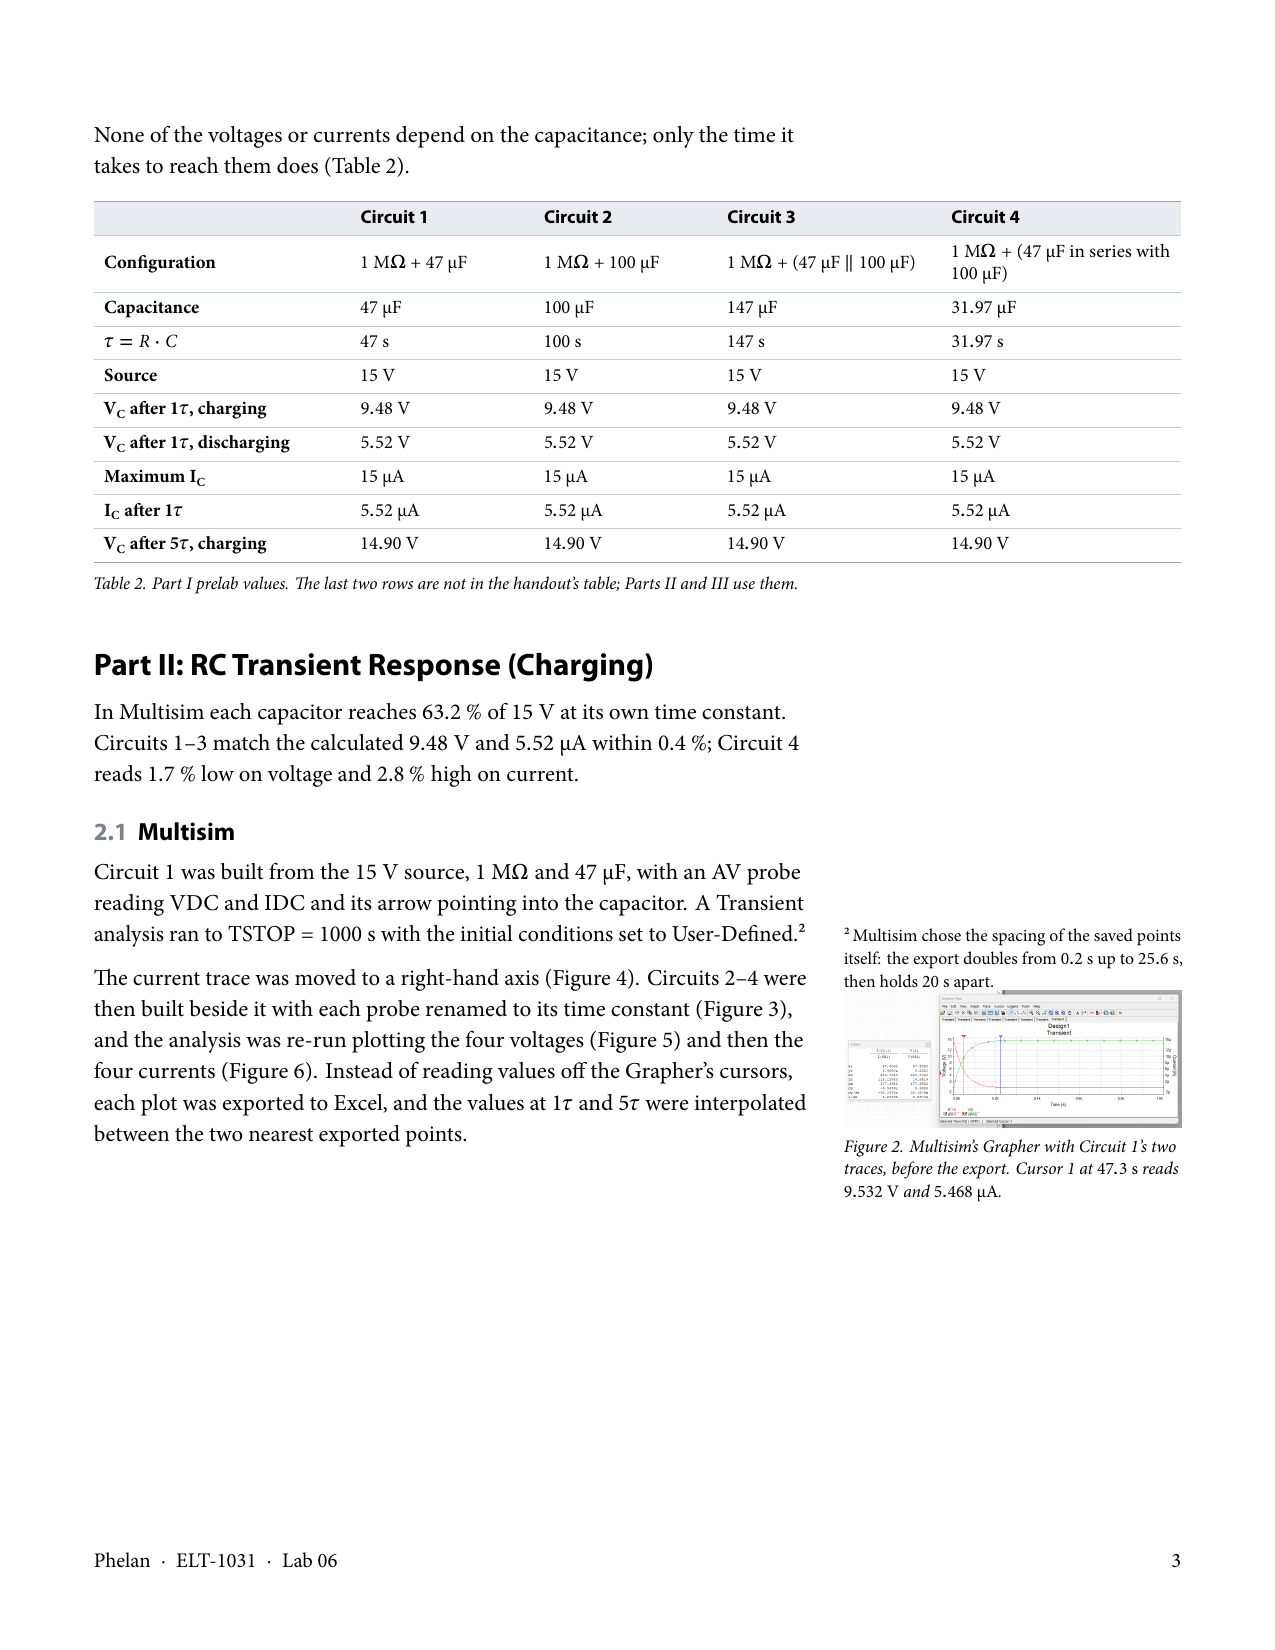
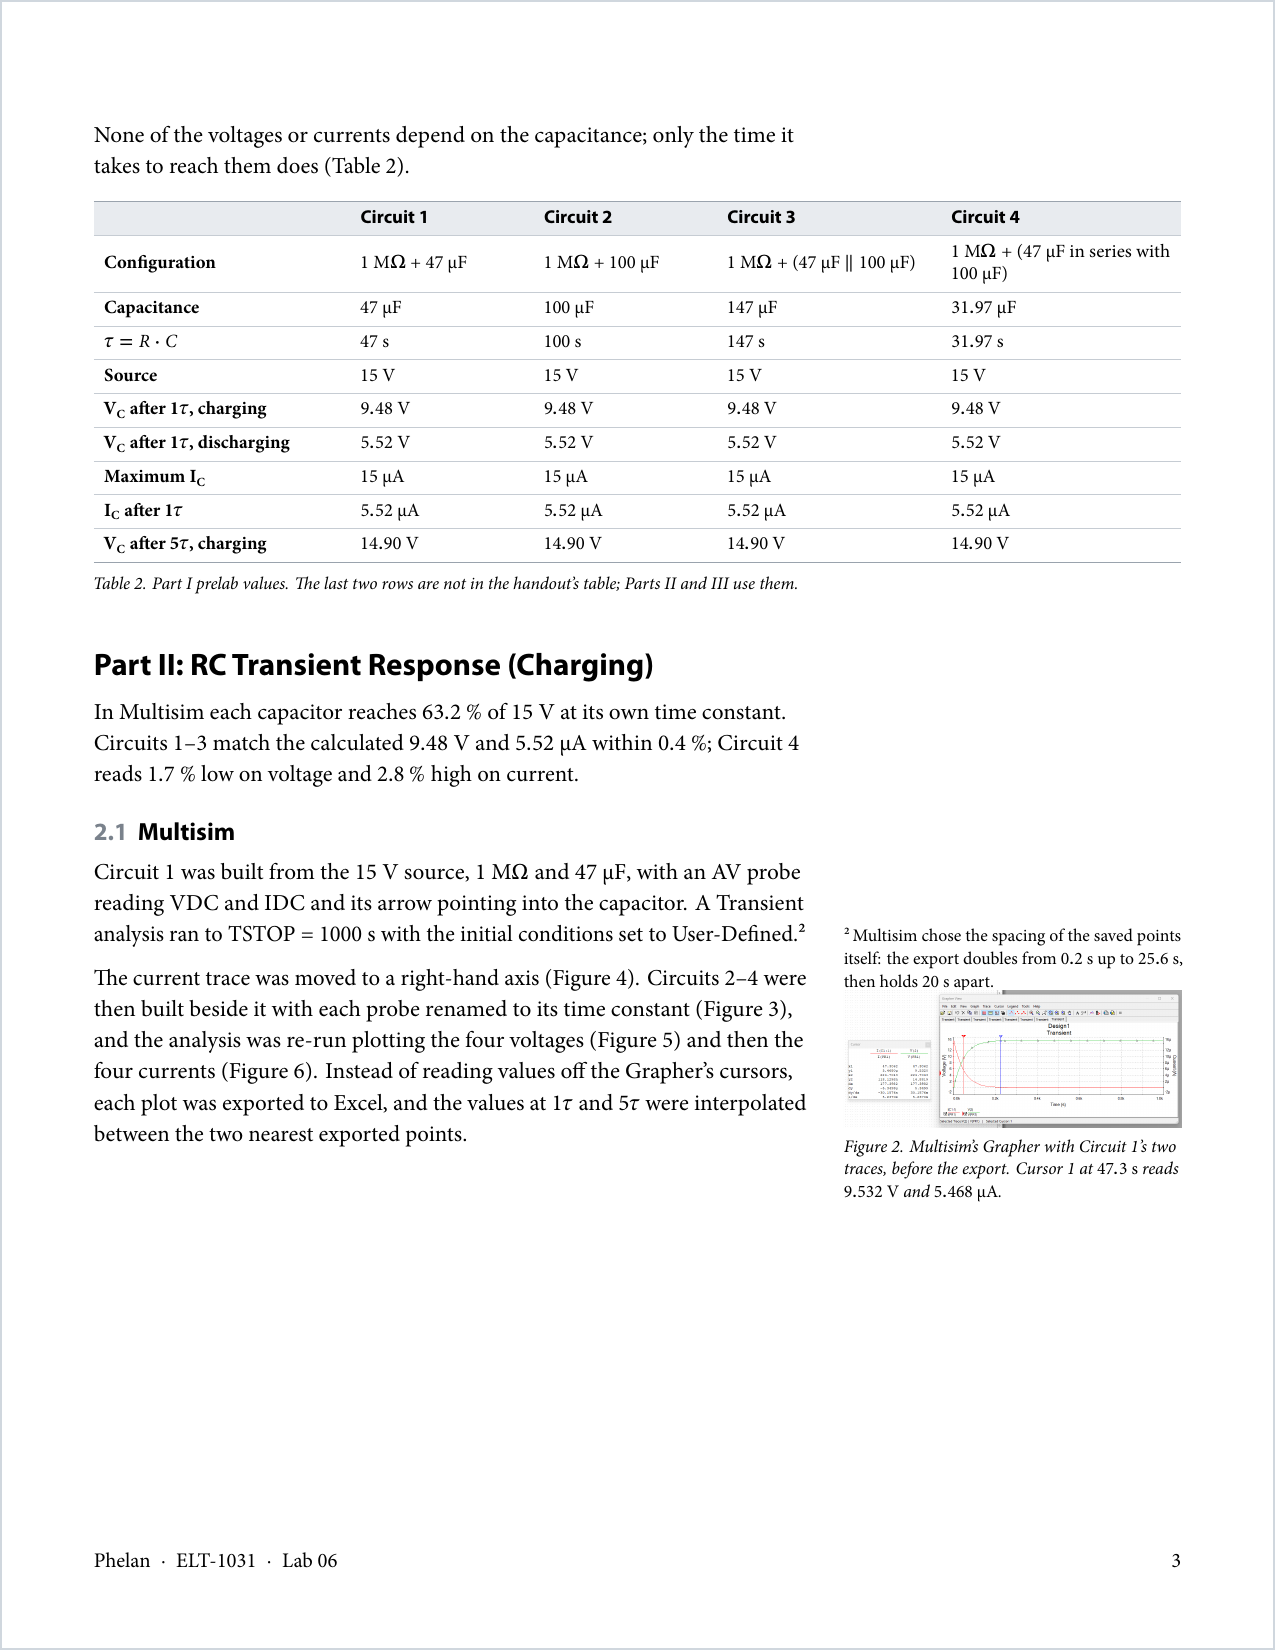
add hairline border to showcase images

Changed region(s): [[0.0, 0.9891, 1.0, 1.0], [0.9788, 0.0, 1.0, 0.0309]]

diff --git a/showcase/make-screenshots.py b/showcase/make-screenshots.py
@@ -1,0 +1,36 @@
+#!/usr/bin/env python3
+"""phelan-lab06.pdf -> pages/page-N.png for the README.
+
+Renders the cover and pages 2, 3 and 5 at 150 dpi with pdftoppm and draws a
+hairline grey border inside each edge, so the white pages show their edges
+on a white background.
+
+Run it with python3 -I make-screenshots.py after building the PDF; it needs
+pdftoppm (poppler) and Pillow.
+"""
+import subprocess
+from pathlib import Path
+
+from PIL import Image, ImageDraw
+
+HERE = Path(__file__).resolve().parent
+PDF = HERE / "phelan-lab06.pdf"
+OUT = HERE / "pages"
+PAGES = [1, 2, 3, 5]
+DPI = 150
+BORDER = (208, 215, 222)  # GitHub's own border grey, reads in light and dark
+WIDTH = 2                 # px at 150 dpi; about 1 px as GitHub scales it down
+
+OUT.mkdir(exist_ok=True)
+for p in PAGES:
+    stem = OUT / f"page-{p}"
+    subprocess.run(["pdftoppm", "-png", "-r", str(DPI), "-f", str(p),
+                    "-l", str(p), "-singlefile", str(PDF), str(stem)],
+                   check=True)
+    png = stem.with_suffix(".png")
+    img = Image.open(png).convert("RGB")
+    w, h = img.size
+    ImageDraw.Draw(img).rectangle([0, 0, w - 1, h - 1],
+                                  outline=BORDER, width=WIDTH)
+    img.save(png, optimize=True)
+    print(png.name, f"{w}x{h}")

diff --git a/README.md b/README.md
@@ -5,11 +5,8 @@ My own LaTeX style for lab reports. The page layout is inspired by the Tufte-sty
 The sample below is a real report of mine, an RC transient lab. Its source and PDF are in [`showcase/`](showcase/).
 
 [![Cover: author, title and a full-page plot of four RC charging and discharging curves](showcase/pages/page-1.png)](showcase/phelan-lab06.pdf)
-
 [![Page 2: four circuit diagrams across the full width, equations, and a side note and table in the margin](showcase/pages/page-2.png)](showcase/phelan-lab06.pdf)
-
 [![Page 3: a full-width table, then text with a side note and a screenshot in the margin](showcase/pages/page-3.png)](showcase/phelan-lab06.pdf)
-
 [![Page 5: two plots with captions in the margin, and a close-up plot in the margin](showcase/pages/page-5.png)](showcase/phelan-lab06.pdf)
 
 ## Inside
